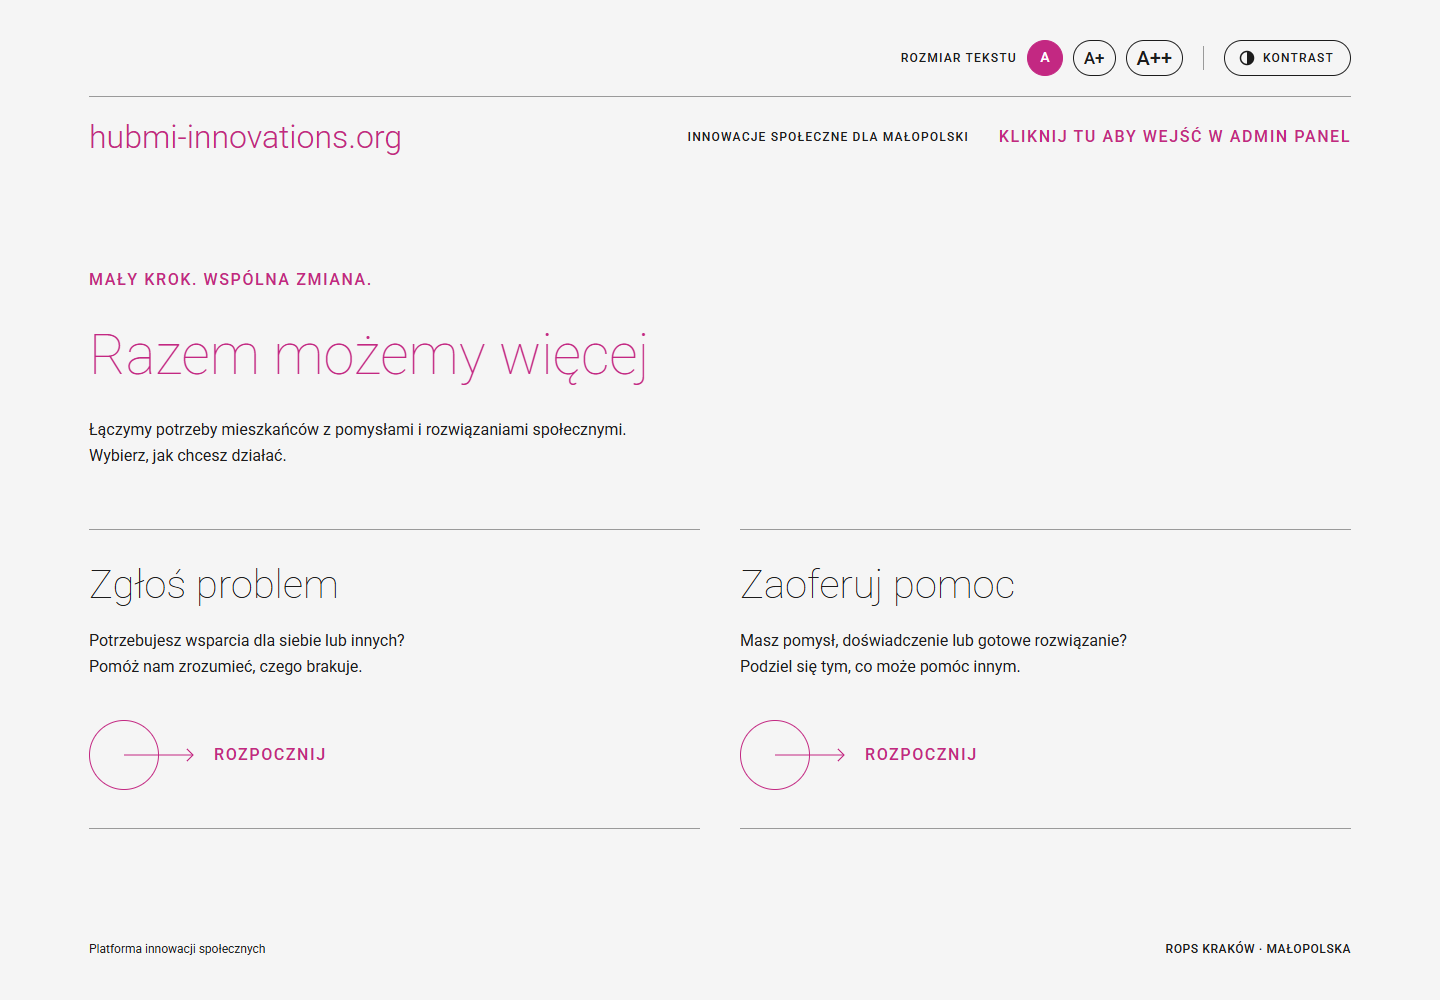
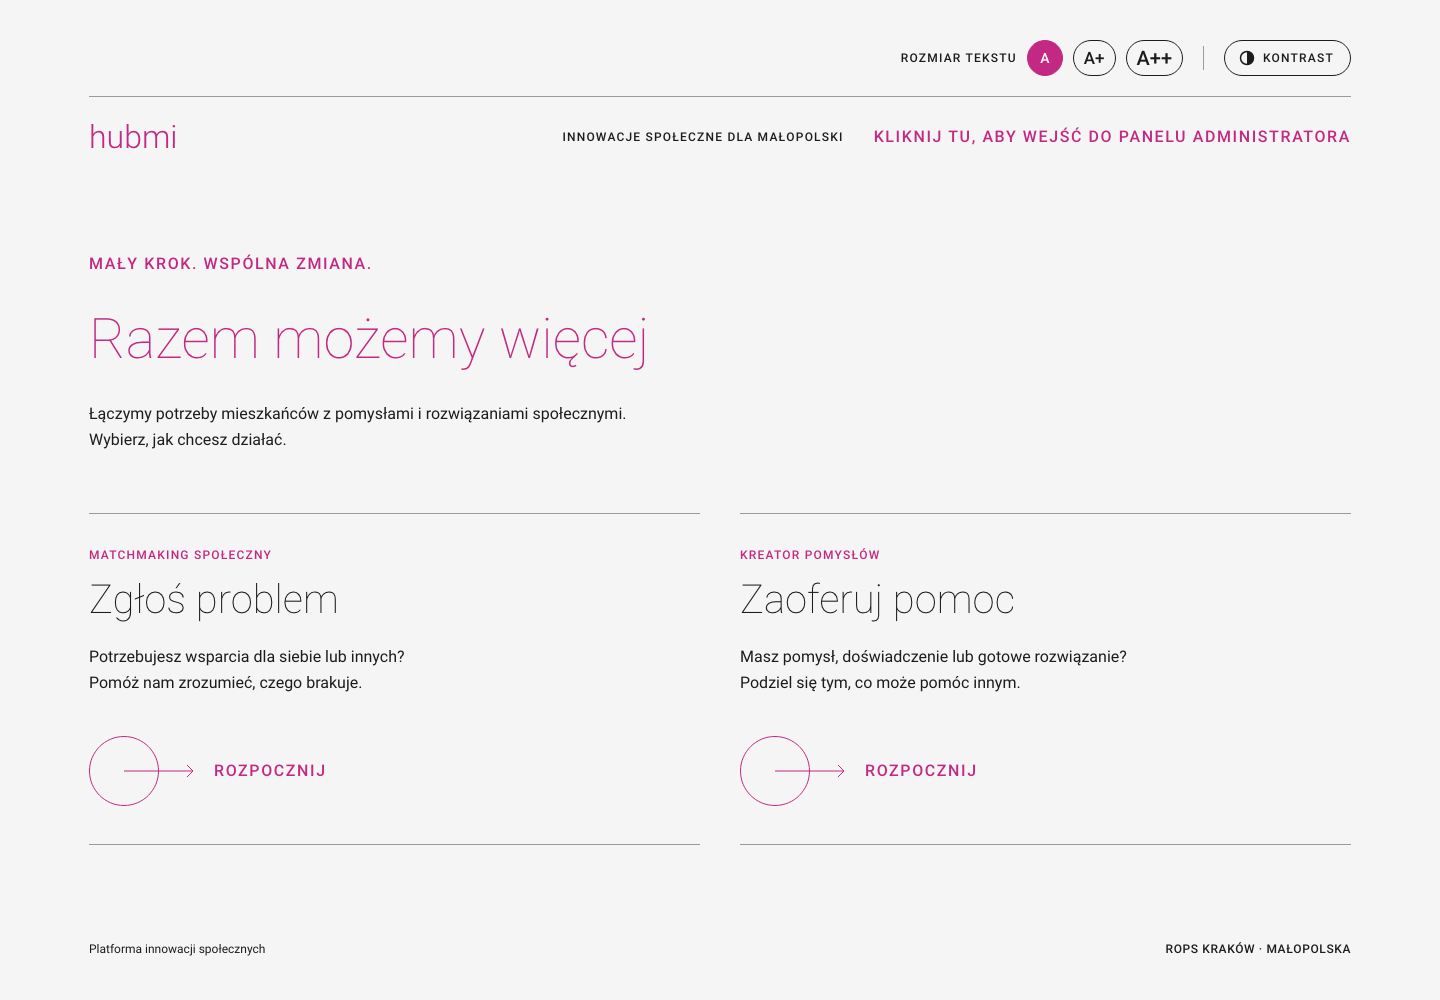
README: HackYeah results, remove local setup (#35)
* Add HackYeah results to README and drop local setup instructions

* Refresh README screenshots and panel naming

diff --git a/README.md b/README.md
@@ -8,9 +8,24 @@ Prototyp przygotowany na HackYeah dla **Regionalnego Ośrodka Polityki Społeczn
 
 ![Strona główna: dwie ścieżki — „Zgłoś problem” i „Zaoferuj pomoc”](docs/screenshots/home.png)
 
+## Wynik na HackYeah 2026
+
+Zespół **JSON Derulo** ze Szczecina, zadanie partnerskie **[UMWM]: HubMi.pl**. Do finałowych pitchy się nie
+dostaliśmy, ale średnia ocen jury była wyraźnie wyższa niż średnia wszystkich drużyn.
+
+| Kryterium (waga) | Ocena |
+| --- | ---: |
+| Stopień spełnienia wyzwania (40%) | 7,50 |
+| Potencjał wdrożeniowy (20%) | 7,00 |
+| Dostępność i intuicyjność prototypu (20%) | 7,50 |
+| Atrakcyjność, pomysłowość i jakość interfejsu (10%) | 7,00 |
+| Jakość dostarczonych materiałów oraz MVP (10%) | 7,50 |
+| **Średnia ważona** | **7,35** |
+| Średnia wszystkich drużyn | 5,57 |
+
 ## Demo w minutę
 
-Nigdzie nie trzeba się logować, również do panelu instytucji.
+Nigdzie nie trzeba się logować, również do Panelu Administratora.
 
 1. **`/zglos-problem`**: napisz jedno zdanie o problemie, np. *„Sąsiad z demencją od trzech dni nie
    otwiera drzwi”*. Asystent dopyta o szczegóły, pokaże pasujące innowacje i przygotuje zgłoszenie.
@@ -54,53 +69,16 @@ Nigdzie nie trzeba się logować, również do panelu instytucji.
 | ![Szczegóły innowacji](docs/screenshots/innovation.png) | |
 | **Strona innowacji**: opis, grupa docelowa, materiały do wdrożenia, komentarze i zapis na testera. | |
 
-### Panel instytucji (`/admin`)
+### Panel Administratora (`/admin`)
 
 | | |
 | --- | --- |
 | ![Lista zgłoszeń](docs/screenshots/submissions.png) | ![Szczegóły zgłoszenia](docs/screenshots/submission-details.png) |
 | **Zgłoszenia**: liczniki, wyszukiwarka, filtry i sortowanie po ryzyku. | **Szczegóły zgłoszenia**: podsumowanie AI, status, ryzyko z uzasadnieniem, mapa i dopasowane innowacje. |
-| ![Biblioteka inicjatyw](docs/screenshots/innovations.png) | ![Nabory](docs/screenshots/calls.png) |
-| **Inicjatywy**: 115 innowacji ROPS i pomysły mieszkańców, publikowanie i wycofywanie, liczba dopasowań. | **Nabory**: ogłaszanie naborów na dofinansowanie i przegląd złożonych wniosków. |
-| ![Mapa potrzeb społecznych](docs/screenshots/needs-map.png) | ![Raporty i trendy](docs/screenshots/reports.png) |
-| **Mapa potrzeb**: 149 wskaźników Obserwatorium ROPS w 22 powiatach Małopolski. | **Raporty i trendy**: zgłoszenia mieszkańców na tle wskaźników i synteza AI dla wybranego powiatu. |
-
-## Uruchomienie lokalne
-
-Wymagania: Node.js 20.9+, pnpm 12.8.1 (wersja przypięta w `packageManager`) i PostgreSQL z rozszerzeniem
-[pgvector](https://github.com/pgvector/pgvector).
-
-```bash
-pnpm install
-# utwórz .env ze zmiennymi z tabeli niżej
-pnpm db:migrate          # schemat bazy i rozszerzenie pgvector
-pnpm seed                # biblioteka innowacji ROPS wraz z embeddingami
-pnpm dev                 # http://localhost:3000
-```
-
-| Zmienna | Opis |
-| --- | --- |
-| `DATABASE_URL` | Połączenie z PostgreSQL (z pgvector) |
-| `OPENAI_API_KEY` | Klucz OpenAI |
-| `OPENAI_MODEL` | Model czatu, enrichmentu i raportów (`OPENAI_CHAT_MODEL` nadpisuje go tylko dla czatu) |
-| `OPENAI_EMBEDDING_MODEL` | Model embeddingów, np. `text-embedding-3-small` |
-| `OPENAI_EMBEDDING_DIMENSIONS` | Opcjonalnie; domyślnie `1536`, musi zgadzać się ze schematem bazy |
-| `OPENAI_TIMEOUT_MS` | Opcjonalnie; domyślnie `30000` |
-
-Nie commituj `.env`.
-
-### Polecenia
-
-```bash
-pnpm dev                 # serwer deweloperski
-pnpm build && pnpm start # build produkcyjny
-pnpm typecheck && pnpm lint
-pnpm db:generate         # nowa migracja po zmianie server/db/schema.ts
-pnpm db:migrate          # zastosowanie migracji
-pnpm seed                # ponowny import biblioteki innowacji (z embeddingami)
-pnpm embed:solutions     # uzupełnienie brakujących lub nieaktualnych embeddingów
-pnpm enrich:submissions  # ponowny enrichment zgłoszeń przez AI
-```
+| ![Biblioteka innowacji](docs/screenshots/innovations.png) | ![Nabory i wnioski](docs/screenshots/calls.png) |
+| **Biblioteka innowacji**: 115 innowacji ROPS, publikowanie i wycofywanie, liczba dopasowań. Pomysły mieszkańców mają osobną stronę. | **Nabory i wnioski**: ogłaszanie naborów na dofinansowanie i przegląd złożonych wniosków. |
+| ![Mapa wyzwań społecznych](docs/screenshots/needs-map.png) | ![Raporty i trendy](docs/screenshots/reports.png) |
+| **Mapa wyzwań**: 149 wskaźników Obserwatorium ROPS w 22 powiatach Małopolski. | **Raporty i trendy**: zgłoszenia mieszkańców na tle wskaźników i synteza AI dla wybranego powiatu. |
 
 ## Stack
 
@@ -115,7 +93,7 @@ app/                     trasy (UI po polsku)
   zglos-problem/         czat „Zgłoś problem”
   zaoferuj-pomoc/        czat „Zaoferuj pomoc” → kanwa/ → wniosek/
   innowacje/[id]/        publiczna strona innowacji
-  admin/                 panel instytucji: zgloszenia, inicjatywy, nabory, mapa-potrzeb, raporty
+  admin/                 Panel Administratora: zgloszenia, inicjatywy (+ pomysly), nabory, mapa-potrzeb, raporty
   api/                   cienkie route handlers: walidacja zod → lib/server
 lib/server/              dostęp do danych, AI (czat, RAG, enrichment, raporty), matchmaking
 server/db/               schemat Drizzle, migracje, seed
